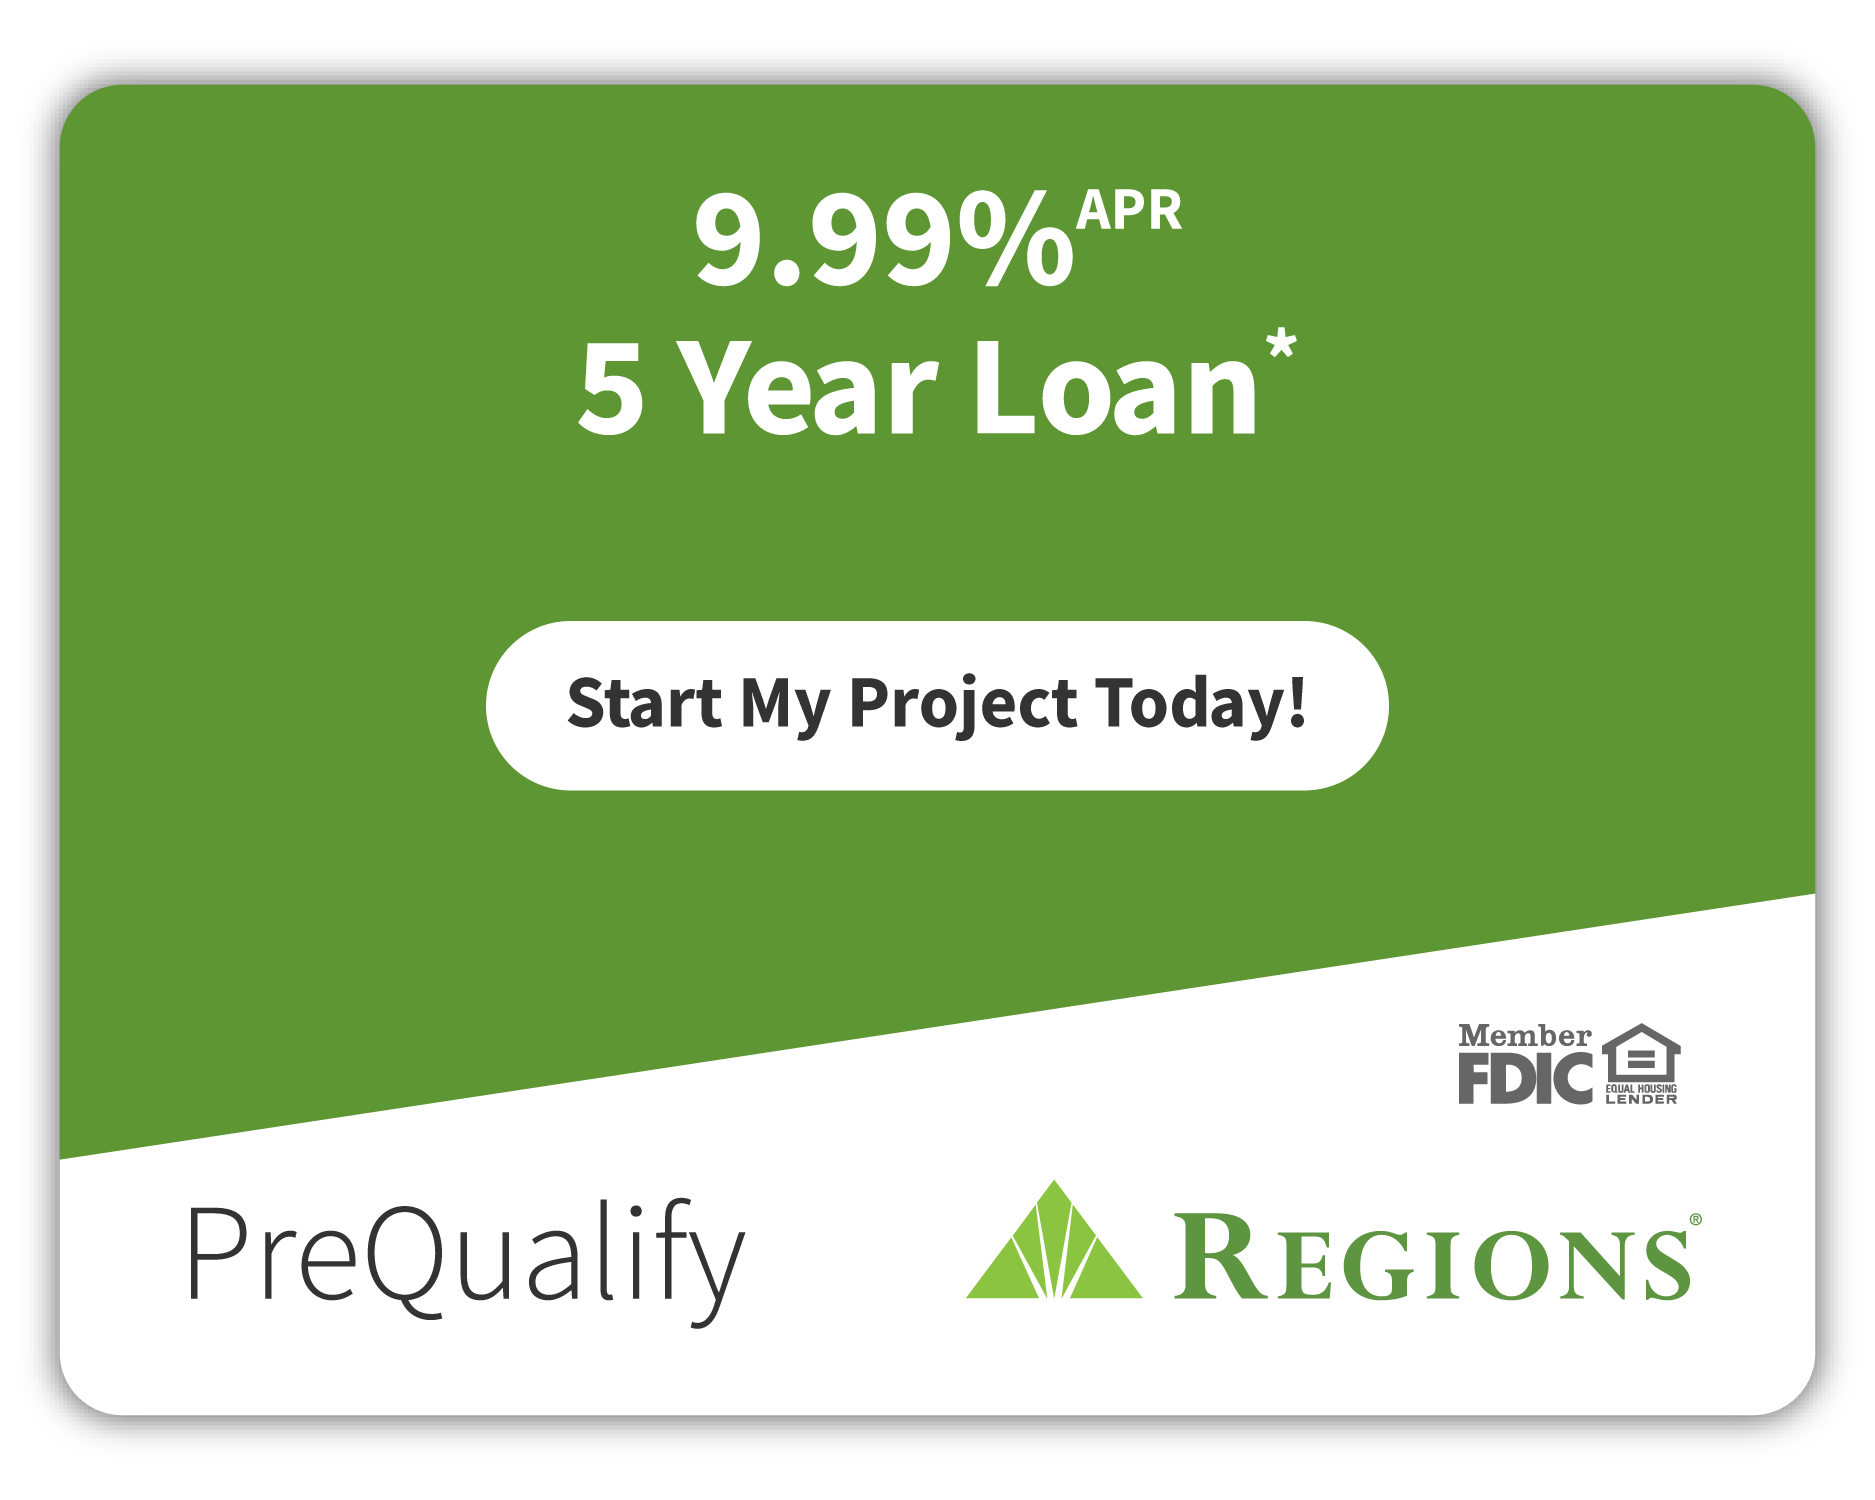
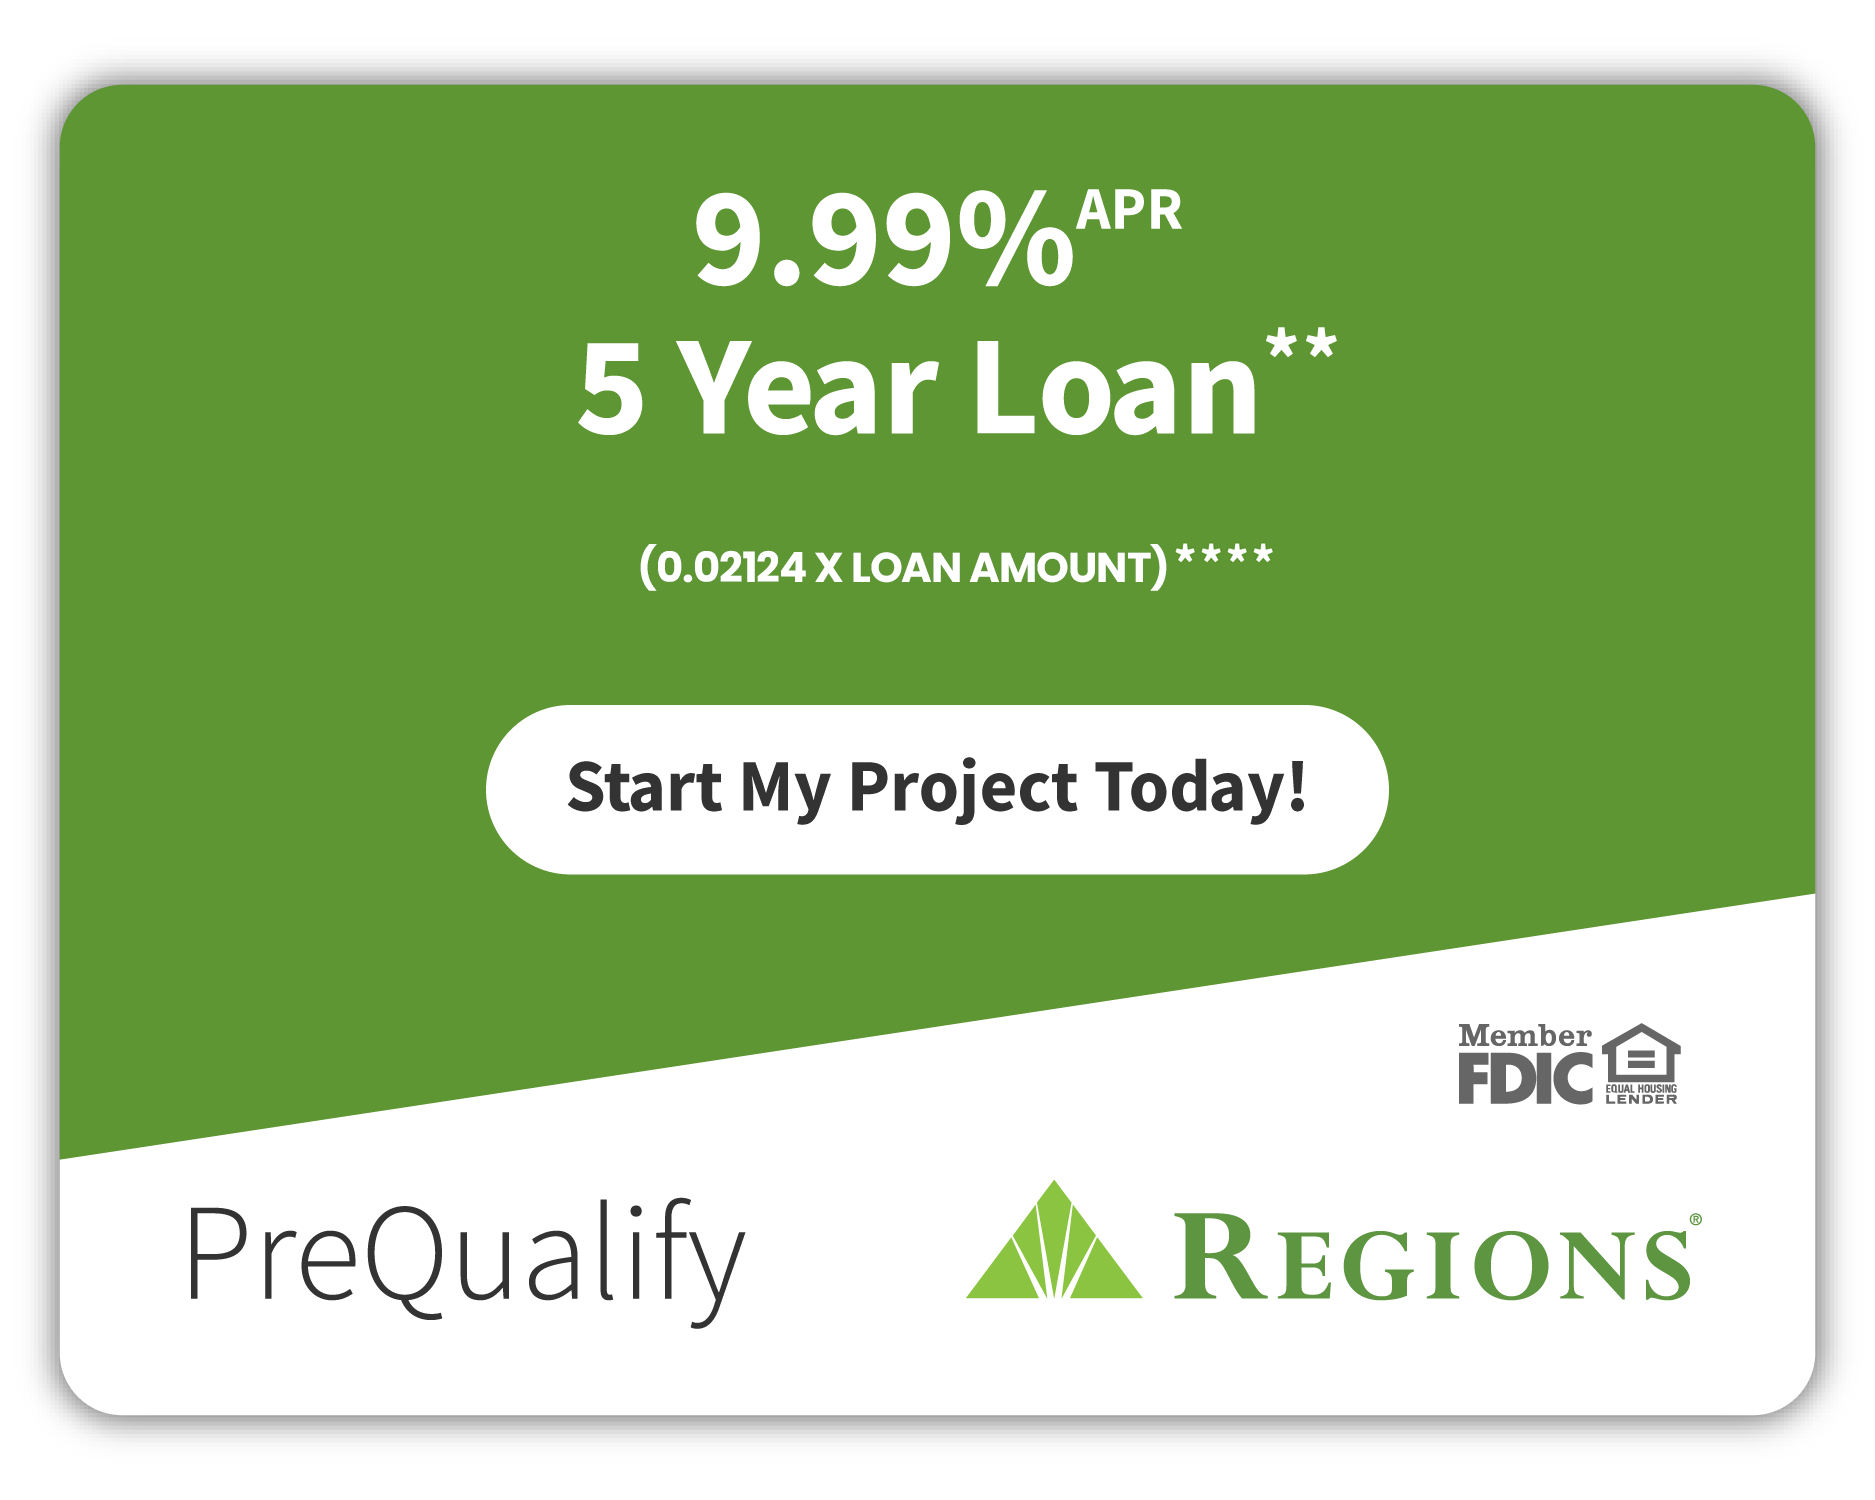
Add files via upload

Changed region(s): [[0.2475, 0.368, 0.7424, 0.5827], [0.6805, 0.2147, 0.7115, 0.2453]]

diff --git a/financing.html b/financing.html
@@ -364,11 +364,12 @@
 
       <!-- Avisos legales -->
       <div class="fnp-legal">
-        <p class="fnp-legal-note">****The monthly payment calculations provided here are estimates only. Regions Bank will determine the exact loan payment amount after loan approval. The accuracy of these calculations is not guaranteed nor is its applicability to your individual circumstances. For some loan types, the monthly payment may change depending upon when funds are disbursed to your contractor, among other factors. You should always obtain financial advice from qualified professionals.</p>
+      
 
         <p class="fnp-legal-note">&copy; 2026 Regions Bank. All Rights Reserved. | All loans subject to qualification, required documentation and credit approval. Regions and the Regions logo are registered trademarks of Regions Bank. The LifeGreen color is a trademark of Regions Bank.</p>
 
         <p class="fnp-legal-fine">Credit and loans provided by Regions Bank, Member FDIC, (650 S. Main St., Suite 1000, Salt Lake City, UT 84101) on approved credit, for a limited time. *19.99% fixed APR (provided however, APR will not exceed 15.99% for residents of New Jersey and 17.99% for residents of Florida and Wisconsin), effective as of September 2026, subject to change. Minimum loan amounts apply. Interest starts accruing when funds are disbursed. Interest waived if repaid in 365 days from first disbursement. When open line period ends, the balance becomes a fixed rate installment loan; repayment terms vary from 24 to 132 months. Actual loan term may be shorter if less than the full approved amount of credit is used. First monthly loan payment due 365 days after first disbursement. If no payments made during same-as-cash period and APR of 19.99%, monthly payments vary from $21.99 to $30.82 per $1,000 borrowed depending on term. The minimum monthly payment will be no less than $50.00. **9.99% fixed APR, subject to change. Minimum loan amounts apply. Interest starts accruing when funds are disbursed. Open line period payments due 90 days after origination and monthly thereafter during open line period. When open line period ends, the balance becomes a fixed rate installment loan; repayment term is 60 months. Actual loan term may be shorter if less than the full approved amount of credit is used. First monthly loan payment due 30 days from the end of the open line period. 60 monthly payments of $21.69 per $1,000 borrowed. The minimum monthly payment will be no less than $50.00. ***8.99% to 24.49% fixed APR (provided however, APR will not exceed 15.99% for residents of New Jersey and 17.99% for residents of Florida and Wisconsin), subject to change. Minimum loan amounts apply. Interest starts accruing when funds are disbursed. Open line period payments due 90 days after origination and monthly thereafter during open line period. When open line period ends, the balance becomes a fixed rate installment loan; repayment terms vary from 12 to 144 months. Actual loan term may be shorter if less than the full approved amount of credit is used. First monthly loan payment due 30 days from the end of the open line period. Monthly payments vary from $11.49 to $30.27 per $1,000 borrowed depending on term and interest rate. The minimum monthly payment will be no less than $50.00.</p>
+        <br><p class="fnp-legal-note">****The monthly payment calculations provided here are estimates only. Regions Bank will determine the exact loan payment amount after loan approval. The accuracy of these calculations is not guaranteed nor is its applicability to your individual circumstances. For some loan types, the monthly payment may change depending upon when funds are disbursed to your contractor, among other factors. You should always obtain financial advice from qualified professionals.</p>
       </div>
 
       <!-- Lista de mejoras elegibles -->
